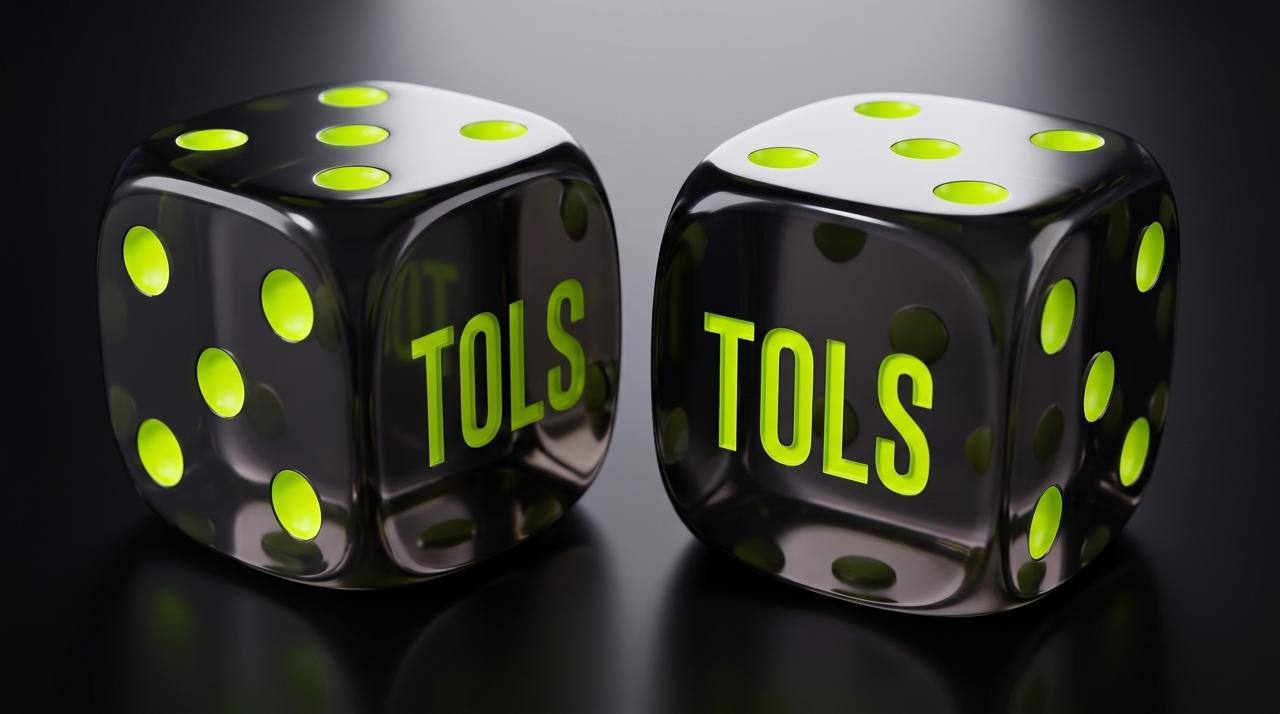
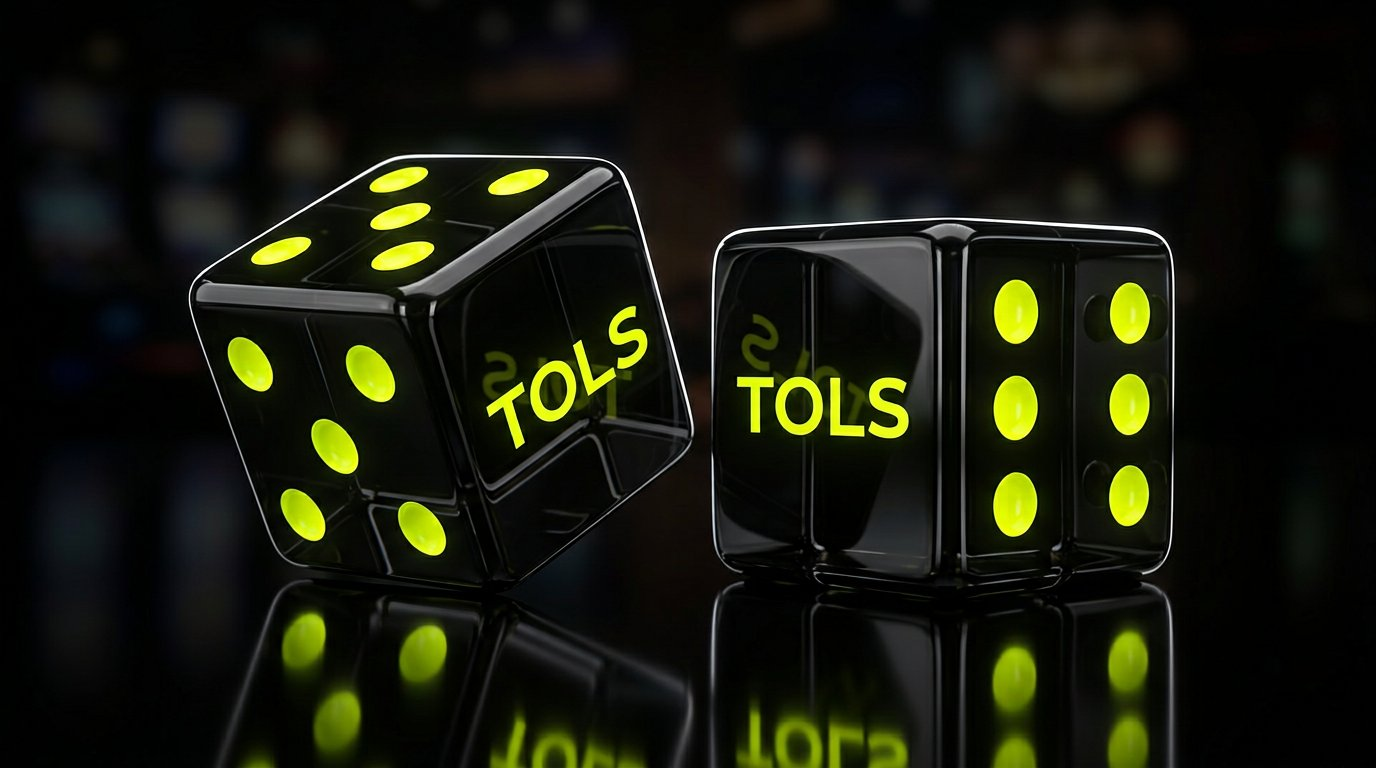
feat(dice): cinematic lobby tile plus CSS/SVG 3D dice on the table
Regenerate the Dice card as a TOLS studio shot and replace the jpeg
prop with two CSS 3D cubes (SVG lime pips, TOLS face) that tumble on
roll. Stage, slider and history use the same lime chrome as the other
Originals.

diff --git a/src/components/casino/game-dice.tsx b/src/components/casino/game-dice.tsx
@@ -2,12 +2,90 @@
 
 import { useState, useCallback, useMemo, useEffect, useRef } from 'react';
 import { useReducedMotion } from 'framer-motion';
-import { ArrowLeft, RotateCcw, Shield, ChevronDown, ChevronUp } from 'lucide-react';
-import { GameBetControls } from "@/components/casino/game-shared";
+import { RotateCcw, Shield, ChevronDown, ChevronUp } from 'lucide-react';
+import { GameBetControls, GameBalance, GameHeader } from "@/components/casino/game-shared";
 import { placeOriginalsBet, useOriginalsSession } from "@/lib/originals-client";
 
 interface Props { onBack: () => void; initialBalance: number; }
 type Result = null | { won: boolean; roll: number; payout: number; multiplier: number };
+
+const PIPS: Record<number, [number, number][]> = {
+  2: [[28, 28], [72, 72]],
+  3: [[28, 28], [50, 50], [72, 72]],
+  4: [[28, 28], [72, 28], [28, 72], [72, 72]],
+  5: [[28, 28], [72, 28], [50, 50], [28, 72], [72, 72]],
+  6: [[28, 24], [72, 24], [28, 50], [72, 50], [28, 76], [72, 76]],
+};
+
+const FACE_ROT: Record<number, string> = {
+  1: 'rotateX(0deg) rotateY(0deg)',
+  2: 'rotateX(-90deg) rotateY(0deg)',
+  3: 'rotateX(0deg) rotateY(-90deg)',
+  4: 'rotateX(0deg) rotateY(90deg)',
+  5: 'rotateX(90deg) rotateY(0deg)',
+  6: 'rotateX(0deg) rotateY(180deg)',
+};
+
+function facesFromRoll(roll: number): [number, number] {
+  const x = Math.floor(Math.max(0, roll) * 100);
+  return [1 + (x % 6), 1 + (Math.floor(x / 7) % 6)];
+}
+
+function DieFace({ n, uid }: { n: number; uid: string }) {
+  const gid = `die-fill-${uid}-${n}`;
+  return (
+    <svg viewBox="0 0 100 100" className="tols-die-svg" aria-hidden>
+      <defs>
+        <radialGradient id={gid} cx="32%" cy="26%" r="78%">
+          <stop offset="0%" stopColor="#2e2e2a" />
+          <stop offset="100%" stopColor="#0c0c0a" />
+        </radialGradient>
+      </defs>
+      <rect x="3" y="3" width="94" height="94" rx="16" fill={`url(#${gid})`} stroke="rgba(205,243,43,0.4)" strokeWidth="2.2" />
+      {n === 1 ? (
+        <text x="50" y="58" textAnchor="middle" fill="#cdf32b" fontSize="17" fontWeight="800" letterSpacing="1.6" fontFamily="system-ui,sans-serif">
+          TOLS
+        </text>
+      ) : (
+        (PIPS[n] ?? []).map(([x, y], i) => (
+          <circle key={i} cx={x} cy={y} r="8.4" fill="#cdf32b" />
+        ))
+      )}
+    </svg>
+  );
+}
+
+function TolsDie({
+  uid,
+  value,
+  rolling,
+  idle,
+}: {
+  uid: string;
+  value: number;
+  rolling: boolean;
+  idle: 'left' | 'right';
+}) {
+  const idlePose = idle === 'left'
+    ? 'rotateX(-18deg) rotateY(-28deg)'
+    : 'rotateX(-12deg) rotateY(22deg)';
+  const transform = rolling ? undefined : (value ? FACE_ROT[value] : idlePose);
+
+  return (
+    <div className={`tols-die-scene tols-die-${idle}`}>
+      <div
+        className={`tols-die-cube${rolling ? ' is-rolling' : ''}`}
+        style={transform ? { transform } : undefined}
+      >
+        {([1, 2, 3, 4, 5, 6] as const).map((n) => (
+          <div key={n} className={`tols-die-face tols-die-face-${n}`}>
+            <DieFace n={n} uid={uid} />
+          </div>
+        ))}
+      </div>
+    </div>
+  );
+}
 
 export function DiceGame({ onBack, initialBalance }: Props) {
   const reduced = useReducedMotion();
@@ -27,6 +105,10 @@ export function DiceGame({ onBack, initialBalance }: Props) {
   const winChance = useMemo(() => isOver ? (100 - target).toFixed(2) : target.toFixed(2), [target, isOver]);
   const potentialMultiplier = useMemo(() => winChance !== '0.00' ? (99 / Number(winChance)).toFixed(4) : '\u221e', [winChance]);
   const potentialPayout = useMemo(() => (betAmount * Number(potentialMultiplier === '\u221e' ? 0 : potentialMultiplier)).toFixed(2), [betAmount, potentialMultiplier]);
+  const faces = useMemo(
+    () => (result ? facesFromRoll(result.roll) : [0, 0]) as [number, number],
+    [result],
+  );
 
   const rollDice = useCallback(async () => {
     if (rolling || betAmount <= 0 || betAmount > balance) return;
@@ -52,27 +134,21 @@ export function DiceGame({ onBack, initialBalance }: Props) {
   const rollPct = animatedRoll;
   const winZoneStart = isOver ? targetPct : 0;
   const winZoneEnd = isOver ? 100 : targetPct;
+  const spinning = rolling && !reduced;
 
   return (
     <div className="game-wrapper compact-game">
-      {/* Header */}
-      <div className="g-header">
-        <button onClick={onBack} className="g-back" aria-label="Back"><ArrowLeft className="w-4 h-4" /></button>
-        <div><h1>Dice</h1><p>Roll over or under your target</p></div>
-      </div>
+      <GameHeader title="Dice" subtitle="Roll over or under your target" onBack={onBack} />
 
       <div className="game-grid">
-        {/* === GAME AREA (left/top) === */}
         <div className="space-y-2">
-          {/* Result Display + Slider — main game element */}
           <div className={'dice-area ' + (showResult && result?.won ? 'win' : '') + (showResult && result && !result.won ? ' loss' : '')}>
-            <img
-              src="/games/props/die.jpg"
-              alt=""
-              draggable={false}
-              className={`dice-prop${rolling && !reduced ? ' rolling' : ''}`}
-            />
-            {/* Result number */}
+            <div className="tols-die-pair">
+              <TolsDie uid="l" value={faces[0]} rolling={spinning} idle="left" />
+              <TolsDie uid="r" value={faces[1]} rolling={spinning} idle="right" />
+            </div>
+            <div className="tols-die-floor" aria-hidden />
+
             <div className="mb-3 text-center">
               <div className={'dice-result ' + (rolling ? '' : showResult && result?.won ? 'win' : showResult && result && !result.won ? 'loss' : 'idle') + (showResult && result && !reduced ? ' dice-slam' : '')}>
                 {animatedRoll.toFixed(2)}
@@ -88,26 +164,20 @@ export function DiceGame({ onBack, initialBalance }: Props) {
               {!result && !rolling && <p className="text-xs mt-1" style={{ color: 'var(--g-text-3)' }}>Set target & roll</p>}
             </div>
 
-            {/* Slider Bar — Shuffle style horizontal */}
             <div className="w-full">
               <div className="dice-bar">
-                {/* Win zone (subtle green) */}
                 <div className="dice-bar-win" style={{ left: winZoneStart + '%', width: (winZoneEnd - winZoneStart) + '%' }} />
-                {/* Lose zone (subtle dark) */}
                 <div className="dice-bar-lose" style={{ left: (isOver ? 0 : targetPct) + '%', width: (isOver ? targetPct : 100 - targetPct) + '%' }} />
-                {/* Roll result marker */}
                 {showResult && result && !rolling && (
                   <div className="absolute top-0 bottom-0 z-10" style={{ left: rollPct + '%', transform: 'translateX(-50%)' }}>
                     <div className={'w-0.5 h-full ' + (result.won ? 'bg-win' : 'bg-loss')} />
                   </div>
                 )}
               </div>
-              {/* Slider input overlaid */}
               <input type="range" min={2} max={98} value={target}
                 onChange={(e) => { setTarget(Number(e.target.value)); setResult(null); setShowResult(false); }}
                 className="dice-slider" disabled={rolling}
                 style={{ marginTop: '-48px', position: 'relative', zIndex: 20 }} />
-              {/* Scale labels */}
               <div className="flex justify-between mt-1 px-0.5">
                 <span className="text-[10px]" style={{ color: 'var(--g-text-3)', fontFamily: 'var(--g-mono)' }}>0</span>
                 <span className="text-[10px]" style={{ color: 'var(--g-text-3)', fontFamily: 'var(--g-mono)' }}>100</span>
@@ -115,7 +185,6 @@ export function DiceGame({ onBack, initialBalance }: Props) {
             </div>
           </div>
 
-          {/* Over/Under Toggle */}
           <div className="g-panel p-2">
             <div className="flex gap-2">
               <button onClick={() => { setIsOver(true); setResult(null); setShowResult(false); }} disabled={rolling}
@@ -125,14 +194,12 @@ export function DiceGame({ onBack, initialBalance }: Props) {
             </div>
           </div>
 
-          {/* Stats */}
           <div className="g-stats">
             <div className="g-stat"><p className="g-stat-label">Win Chance</p><p className="g-stat-value">{winChance}%</p></div>
-            <div className="g-stat"><p className="g-stat-label">Multiplier</p><p className="g-stat-value lime">{potentialMultiplier}\u00d7</p></div>
+            <div className="g-stat"><p className="g-stat-label">Multiplier</p><p className="g-stat-value lime">{potentialMultiplier}×</p></div>
             <div className="g-stat"><p className="g-stat-label">Payout</p><p className="g-stat-value">{'$' + potentialPayout}</p></div>
           </div>
 
-          {/* History */}
           {history.length > 0 && (
             <div className="g-history">
               <div className="g-history-head">
@@ -144,16 +211,15 @@ export function DiceGame({ onBack, initialBalance }: Props) {
                   <div key={i} className="g-history-item">
                     <div className="flex items-center gap-2">
                       <span className={'g-history-badge ' + (h.result === 'win' ? 'win' : 'loss')}>{h.result}</span>
-                      <span className="text-[11px]" style={{ color: 'var(--g-text-2)' }}>{h.isOver ? 'Over' : 'Under'} {h.target} \u2192 <span className="font-semibold" style={{ color: 'var(--g-text)', fontFamily: 'var(--g-mono)' }}>{h.roll.toFixed(2)}</span></span>
+                      <span className="text-[11px]" style={{ color: 'var(--g-text-2)' }}>{h.isOver ? 'Over' : 'Under'} {h.target} → <span className="font-semibold" style={{ color: 'var(--g-text)', fontFamily: 'var(--g-mono)' }}>{h.roll.toFixed(2)}</span></span>
                     </div>
-                    <span className={'text-[11px] font-bold tabular-nums ' + (h.result === 'win' ? 'text-[#00e701]' : 'text-[#ff3b3b]')} style={{ fontFamily: 'var(--g-mono)' }}>{h.result === 'win' ? '+' : '-'}{'$' + h.payout.toFixed(2)}</span>
+                    <span className={'text-[11px] font-bold tabular-nums ' + (h.result === 'win' ? 'text-win' : 'text-loss')} style={{ fontFamily: 'var(--g-mono)' }}>{h.result === 'win' ? '+' : '-'}{'$' + h.payout.toFixed(2)}</span>
                   </div>
                 ))}
               </div>
             </div>
           )}
 
-          {/* Provably Fair */}
           <div className="g-pf">
             <button onClick={() => setShowPF(v => !v)} className="g-pf-toggle w-full">
               <div className="flex items-center gap-2">
@@ -173,26 +239,15 @@ export function DiceGame({ onBack, initialBalance }: Props) {
           </div>
         </div>
 
-        {/* === CONTROLS PANEL (right/bottom) === */}
         <div className="space-y-2">
-          {/* Balance */}
-          <div className="g-balance">
-            <p className="g-balance-label">Balance</p>
-            <p className="g-balance-value">{balance.toFixed(2)}</p>
-          </div>
-
-          {/* Bet Controls */}
+          <GameBalance value={balance} />
           <GameBetControls betAmount={betAmount} setBetAmount={setBetAmount} balance={balance} disabled={rolling} />
-
-          {/* Profit on Win */}
           <div className="g-panel p-3">
             <div className="flex items-center justify-between">
               <span className="text-xs" style={{ color: 'var(--g-text-3)' }}>Profit on Win</span>
               <span className="text-sm font-bold tabular-nums" style={{ color: 'var(--g-green)', fontFamily: 'var(--g-mono)' }}>+{(Number(potentialPayout) - betAmount).toFixed(2)}</span>
             </div>
           </div>
-
-          {/* Roll Button */}
           <button onClick={rollDice} disabled={rolling || betAmount <= 0 || betAmount > balance} className="g-btn g-btn-play">
             {rolling ? 'Rolling...' : 'Roll Dice'}
           </button>

diff --git a/src/app/originals.css b/src/app/originals.css
@@ -374,24 +374,55 @@ button.bj-card.scopa-playable { cursor: pointer; }
   box-shadow: 0 12px 20px rgb(0 0 0 / 0.35);
 }
 
-/* Photoreal in-game props — same studio art as the lobby tiles. */
-.dice-prop {
-  width: 5.75rem;
-  height: 5.75rem;
-  object-fit: contain;
-  filter: drop-shadow(0 14px 22px rgb(0 0 0 / 0.55));
-  margin: 0 auto 0.35rem;
-  display: block;
-  pointer-events: none;
-  user-select: none;
+/* TOLS CSS/SVG 3D dice — in-game board matching the lobby tile. */
+.tols-die-pair {
+  display: flex;
+  align-items: flex-end;
+  justify-content: center;
+  gap: 1.6rem;
+  min-height: 7.5rem;
+  margin-bottom: 0.15rem;
 }
-.dice-prop.rolling {
-  animation: dice-tumble 0.28s linear infinite;
+.tols-die-scene {
+  width: 104px;
+  height: 104px;
+  perspective: 700px;
 }
-@keyframes dice-tumble {
-  0% { transform: rotate(0deg) scale(1); }
-  40% { transform: rotate(150deg) scale(0.9); }
-  100% { transform: rotate(360deg) scale(1); }
+.tols-die-left { transform: rotateZ(-9deg); }
+.tols-die-right { transform: rotateZ(8deg); }
+.tols-die-cube {
+  width: 100%;
+  height: 100%;
+  position: relative;
+  transform-style: preserve-3d;
+  transition: transform 0.85s cubic-bezier(0.16, 1, 0.3, 1);
+}
+.tols-die-cube.is-rolling {
+  animation: tols-die-spin 0.32s linear infinite;
+}
+.tols-die-face {
+  position: absolute;
+  inset: 0;
+  backface-visibility: hidden;
+  -webkit-backface-visibility: hidden;
+}
+.tols-die-face-1 { transform: rotateY(0deg) translateZ(52px); }
+.tols-die-face-2 { transform: rotateX(90deg) translateZ(52px); }
+.tols-die-face-3 { transform: rotateY(90deg) translateZ(52px); }
+.tols-die-face-4 { transform: rotateY(-90deg) translateZ(52px); }
+.tols-die-face-5 { transform: rotateX(-90deg) translateZ(52px); }
+.tols-die-face-6 { transform: rotateY(180deg) translateZ(52px); }
+.tols-die-svg { width: 100%; height: 100%; display: block; }
+.tols-die-floor {
+  width: 230px;
+  height: 16px;
+  margin: 0.15rem auto 0.65rem;
+  border-radius: 50%;
+  background: radial-gradient(ellipse, rgb(0 0 0 / 0.55), transparent 72%);
+}
+@keyframes tols-die-spin {
+  0% { transform: rotateX(0deg) rotateY(0deg) rotateZ(0deg); }
+  100% { transform: rotateX(360deg) rotateY(420deg) rotateZ(180deg); }
 }
 .mines-prop {
   width: 78%;
@@ -433,5 +464,5 @@ button.bj-card.scopa-playable { cursor: pointer; }
     radial-gradient(ellipse at 50% 100%, #161612, #0c0d10 68%);
 }
 @media (prefers-reduced-motion: reduce) {
-  .dice-prop.rolling { animation: none; }
+  .tols-die-cube.is-rolling { animation: none; }
 }

diff --git a/src/app/globals.css b/src/app/globals.css
@@ -1078,9 +1078,9 @@ a,
 .crash-status.win { color:var(--g-green); }
 .crash-status.idle { color:var(--g-text-3); }
 /* DICE */
-.dice-area { position:relative; border-radius:var(--g-radius); background:var(--g-panel); border:1px solid var(--g-border); overflow:hidden; padding:1.25rem 1rem; display:flex; flex-direction:column; align-items:center; justify-content:center; min-height:140px; transition:border-color 0.2s ease; }
-.dice-area.win { border-color:var(--g-border-active); }
-.dice-area.loss { border-color:rgba(255,59,59,0.2); }
+.dice-area { position:relative; border-radius:1rem; background:radial-gradient(ellipse at 50% 72%, color-mix(in oklab, var(--color-lime) 12%, transparent), transparent 55%), radial-gradient(ellipse at 50% 100%, #161612, #0c0d10 70%); border:1px solid color-mix(in oklab, var(--color-lime) 14%, transparent); overflow:hidden; padding:1.35rem 1rem 1.15rem; display:flex; flex-direction:column; align-items:center; justify-content:center; min-height:260px; transition:border-color 0.2s ease; }
+.dice-area.win { border-color:var(--g-border-active); box-shadow:0 0 28px color-mix(in oklab, var(--color-lime) 18%, transparent); }
+.dice-area.loss { border-color:rgba(255,59,59,0.28); }
 .dice-result { font-family:var(--g-mono); font-size:2.5rem; font-weight:700; font-variant-numeric:tabular-nums; letter-spacing:-0.03em; line-height:1; }
 @media(min-width:768px){ .dice-result { font-size:2.75rem; } }
 .dice-result.win { color:var(--g-green); }
